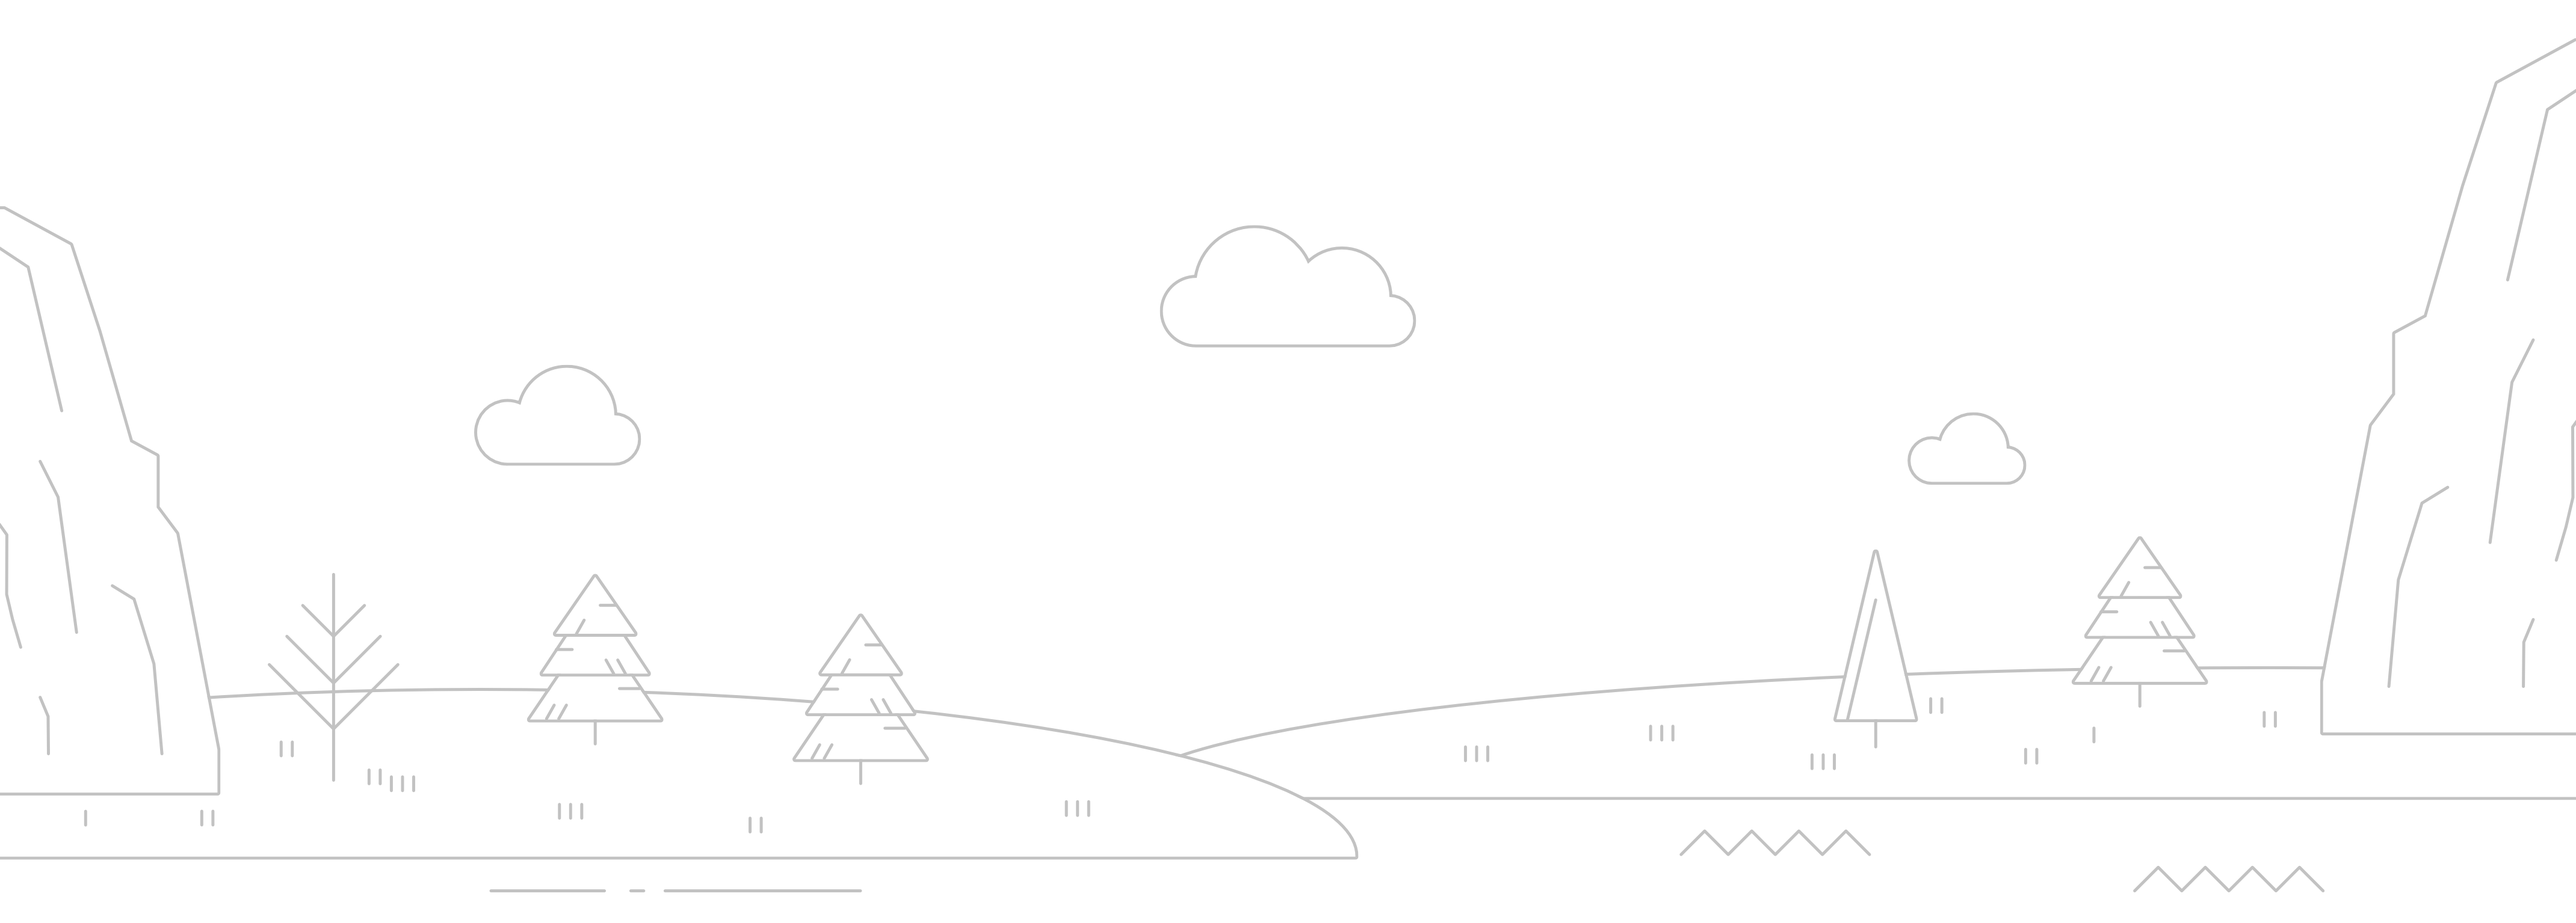
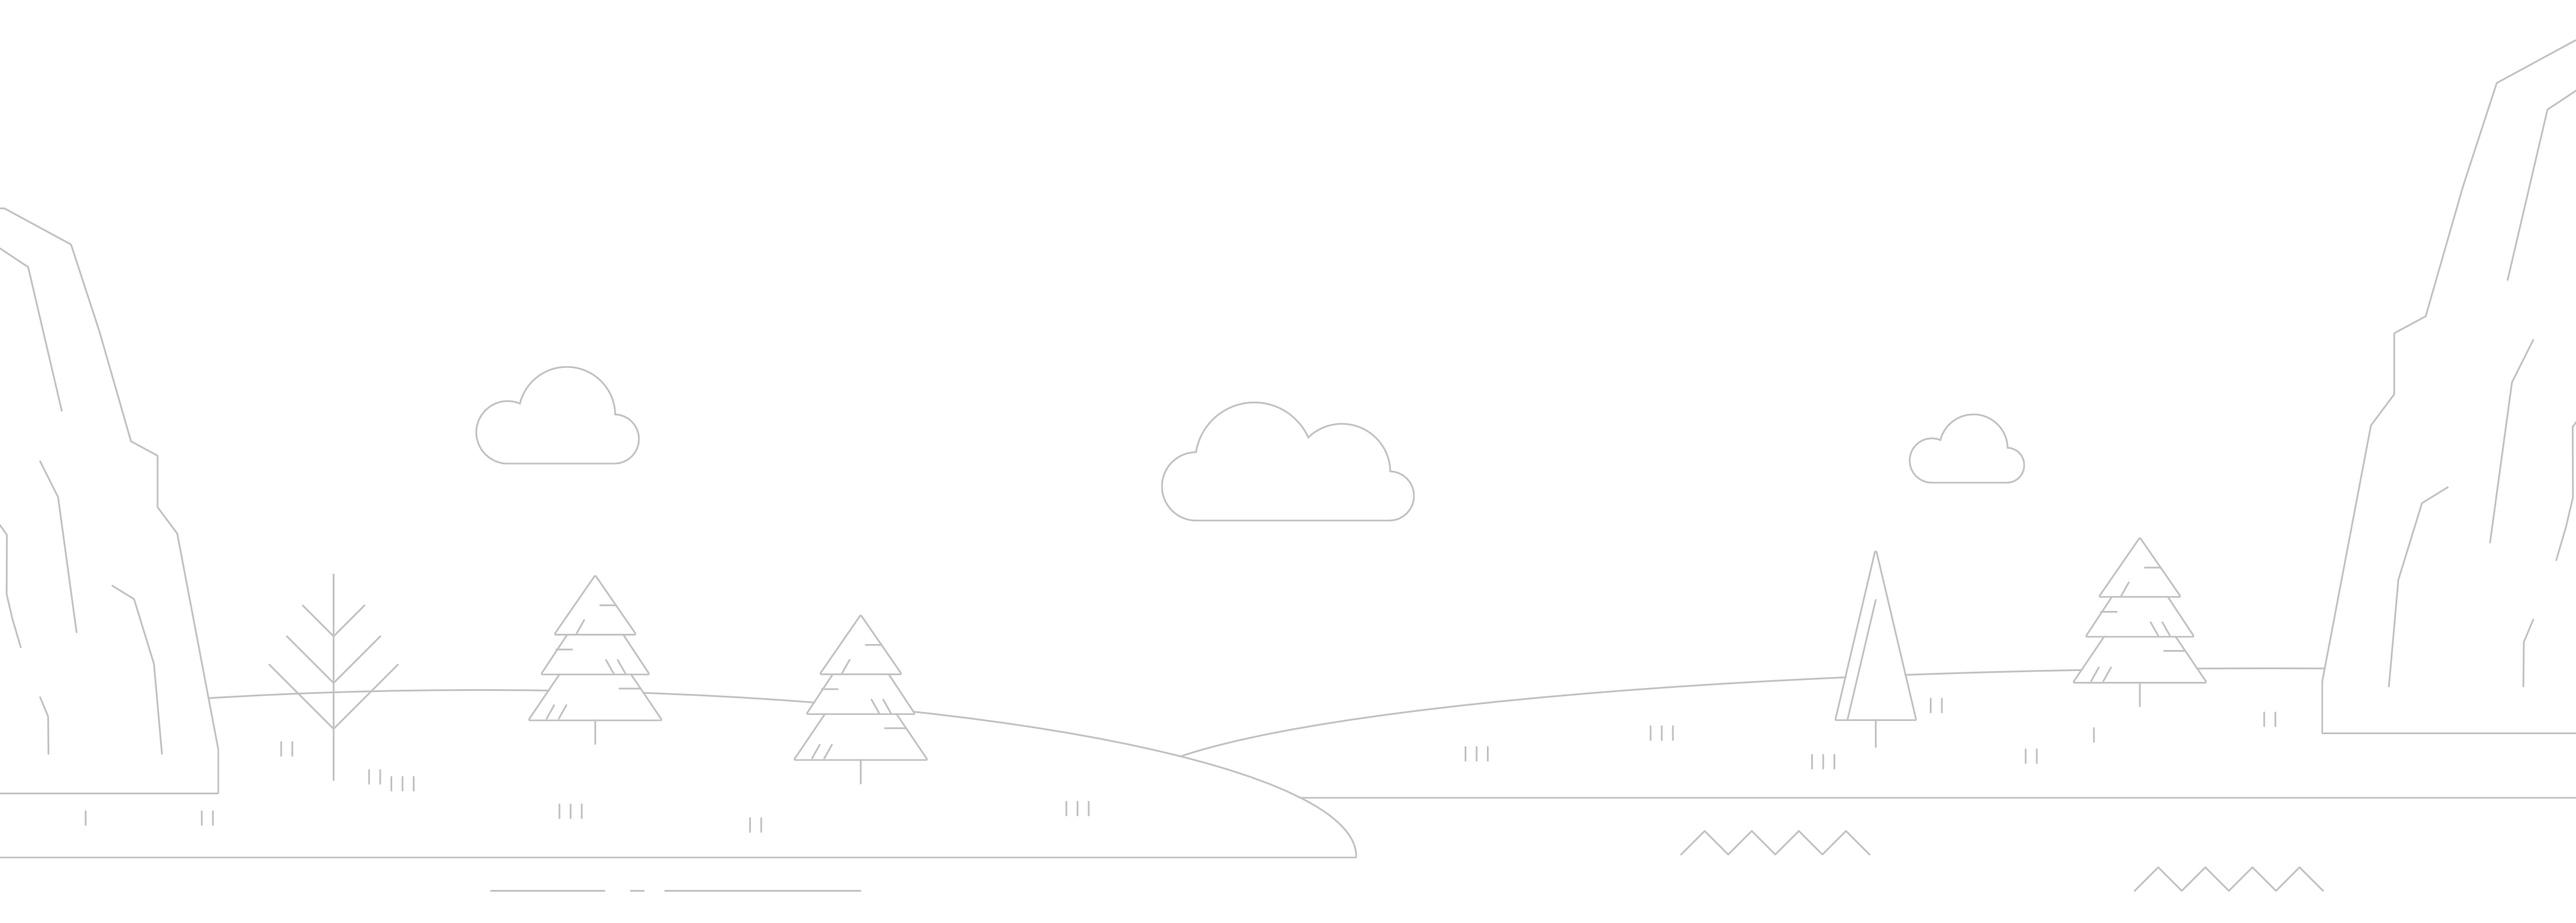
f

Changed region(s): [[0.466, 0.3674, 0.5281, 0.398], [0.466, 0.245, 0.5281, 0.2756]]

diff --git a/index.html b/index.html
@@ -26,7 +26,7 @@
 <div class="page">
 
   <header>
-    <a class="icon" href="#"><img id="icon" src="assets/logoBlack.svg" /></a>
+    <a class="icon" href="#"><img id="icon" src="assets/logoBlack.png" /></a>
     <a id="link-1" href="work.html" class="button">WORK</a>
     <a id="link-2" href="studio.html" class="button">STUDIO</a>
     <a id="link-3" href="#contact" class="button" onclick="scrollToggle()">SAY HI</a>
@@ -72,7 +72,7 @@
 
       <div class="object-wrapper logo">
         <div class="logo-spacer"></div>
-        <img class="parallax logo-image" src="assets/logoBlack.svg" />
+        <img class="parallax logo-image" src="assets/home/icon_black.png" />
       </div>
 
       <div class="object-wrapper sun">
@@ -88,7 +88,7 @@
         <div class="intro-text">
           <h1><span style="font-weight: 300;">I am</span><br>NICHOLAS TOBAT.</h1>
           <br>
-          <p>I am a tenacious tinkerer and hybrid designer of web, mobile, product, and brand experiences.<br><br>  I believe natural input fuels creative output. Currently you can('t) find me living out my&nbsp; <span class="define">dirtbag</span>&nbsp; dreams among the forests and cliffs of West Virginia.  </p>
+          <p>I am a tireless tinkerer and hybrid designer of web, mobile, product, and brand experiences.<br><br>  I believe natural input fuels creative output. Currently you can('t) find me living out my&nbsp; <span class="define">dirtbag</span>&nbsp; dreams among the forests and cliffs of West Virginia.  </p>
         </div>
       </div>
 

diff --git a/index.css b/index.css
@@ -125,7 +125,7 @@ a.active{
 	cursor: pointer;
 }
 .define::after{
-	content: '"Dirtbag" is an affectionate term meaning one who exults in living outside and pursues joy.';
+	content: '"Dirtbag" is an affectionate term meaning one who lives outside and rock climbs full-time, for fun.';
 	position: absolute;
 	width: 120px;
 	padding: 6px;
@@ -348,10 +348,12 @@ PARALLAX
 	transform: translateZ(4px) scale(0.5);
 	display: flex;
 	justify-content: space-around;
+	align-items: center;
 }
 
 .logo-image{
 	width: 35vw;
+	height: 35vw;
 }
 .logo-spacer{
 	width: 35vw;
@@ -382,6 +384,7 @@ PARALLAX
 	font-family: var(--primary-font-family);
 }
 .intro-text p{
+	font-size: calc(1vw + 6px);
 	line-height: 1.5em;
 }
 .intro-text h1{
@@ -391,7 +394,7 @@ PARALLAX
 }
 
 .sun{
-	transform: translateZ(2px) scale(0.75);
+	transform: translateZ(-1px) scale(1.125);
 	display: flex;
 	flex-flow: row wrap;
 	z-index: -1;
